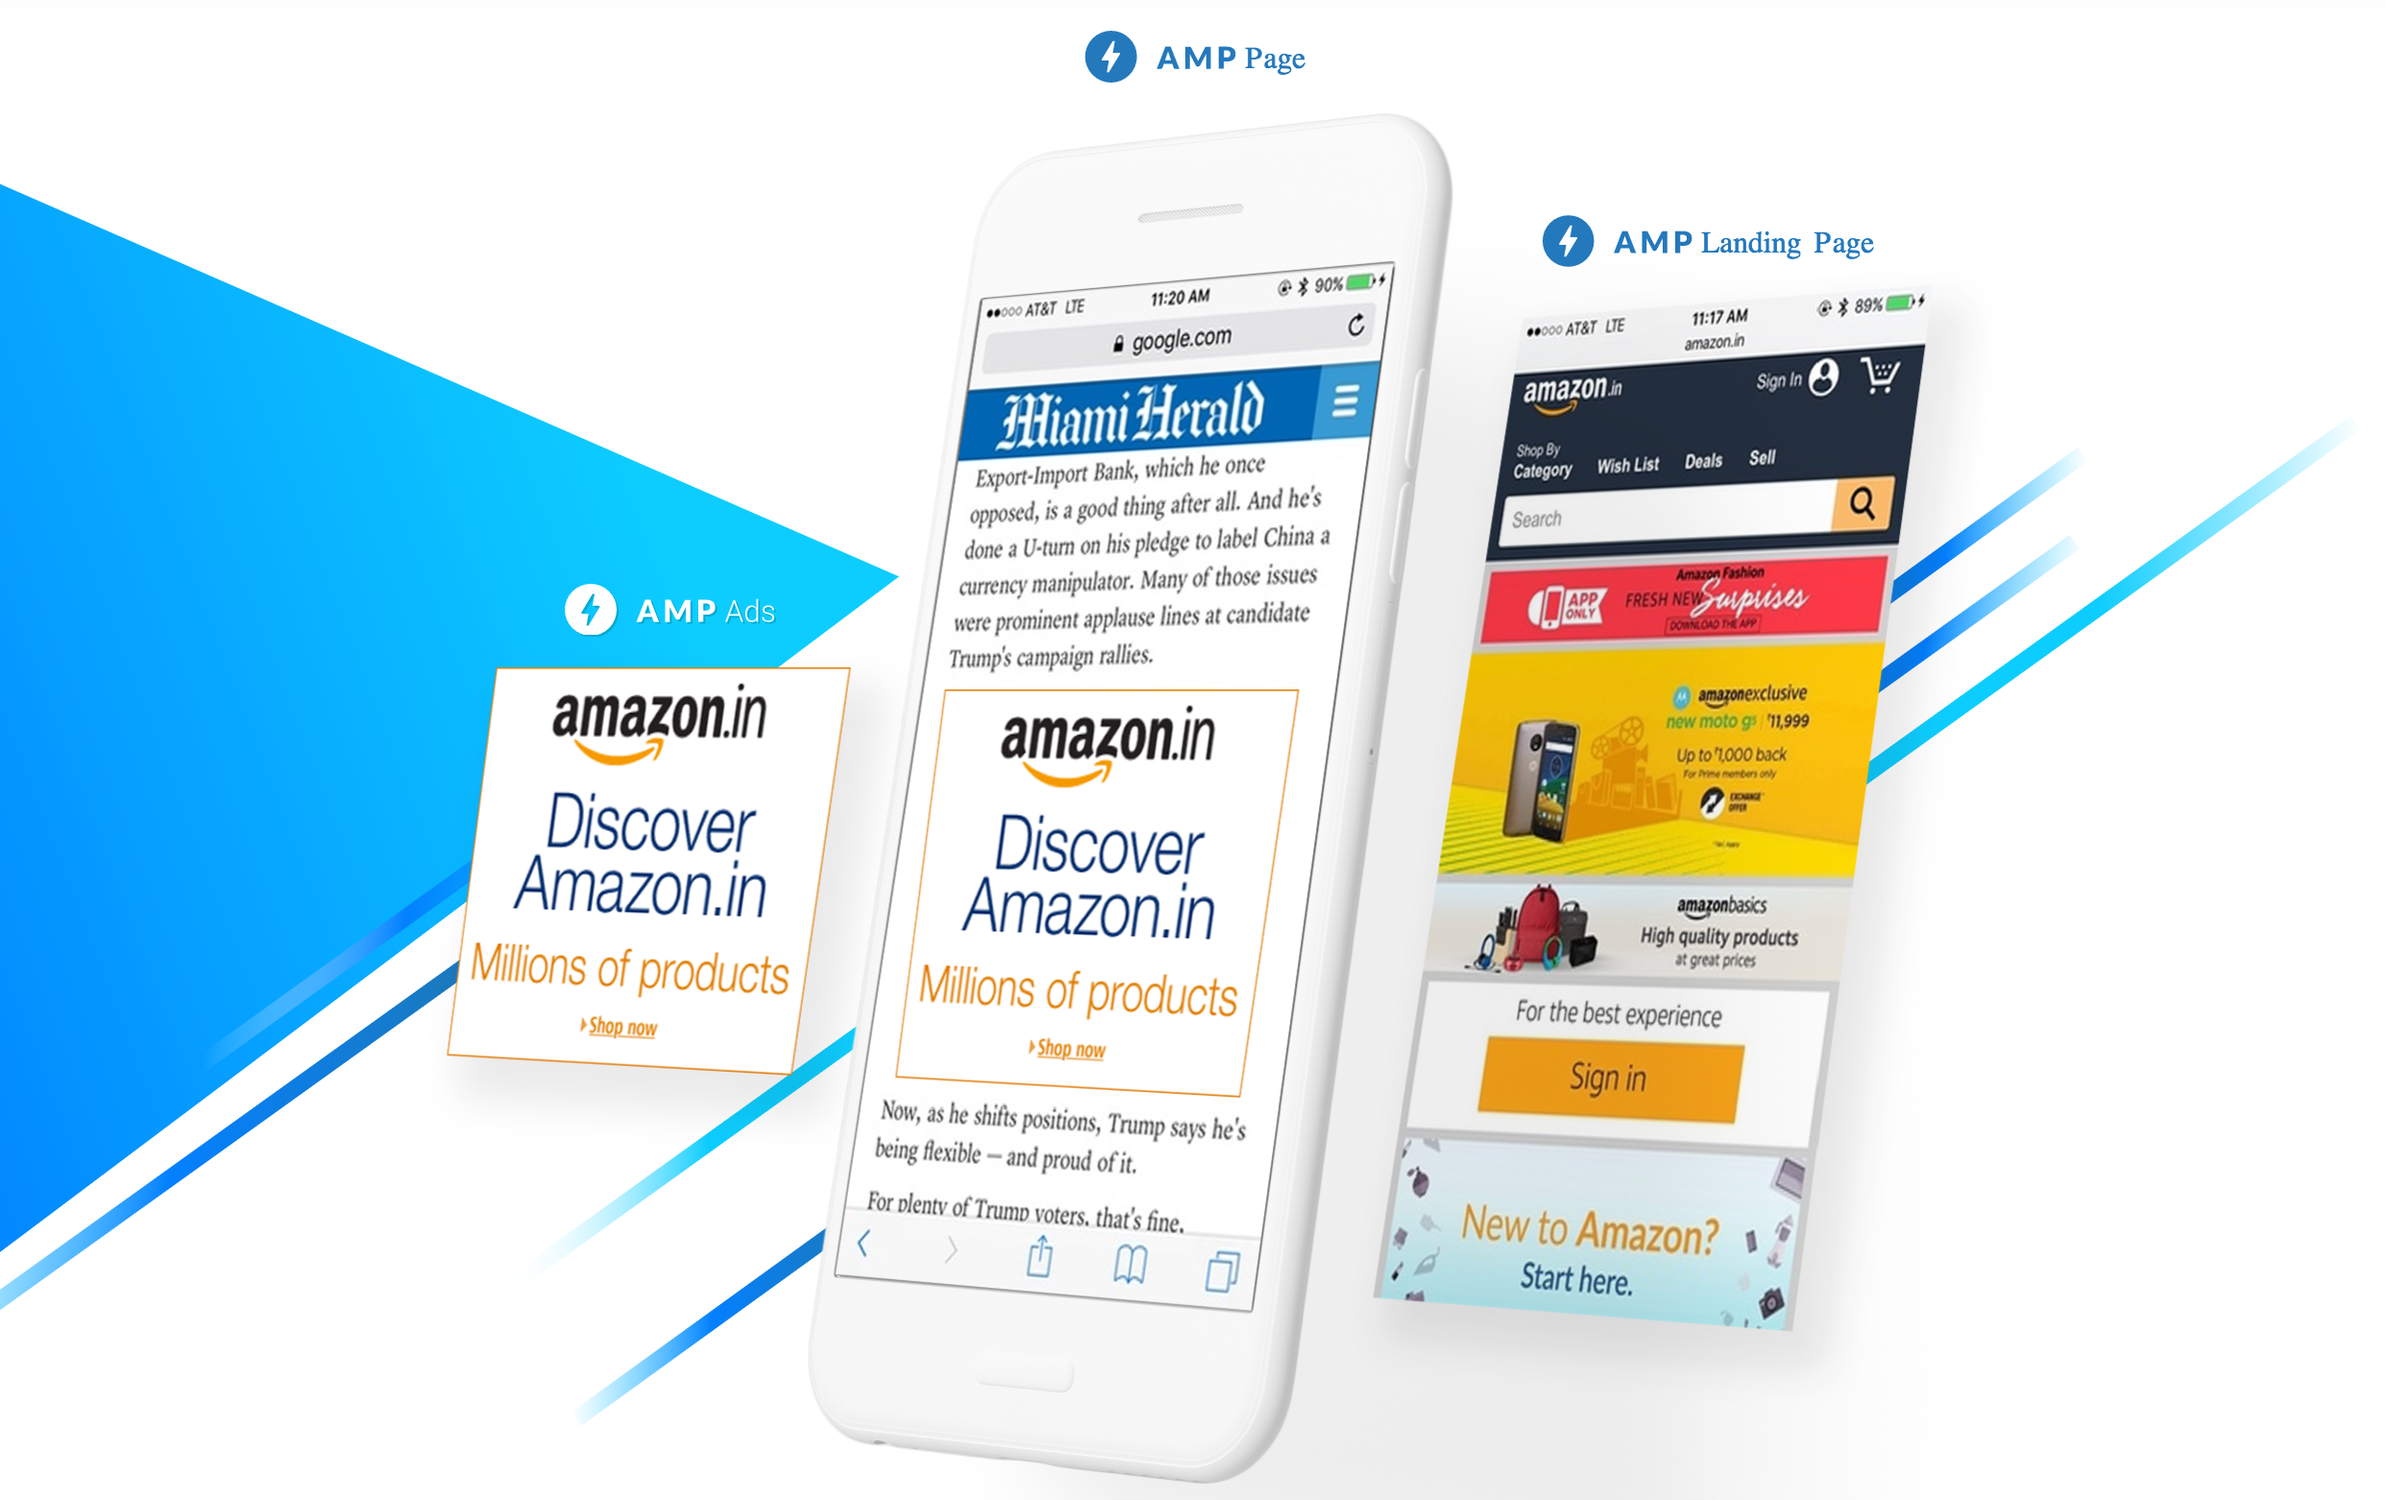
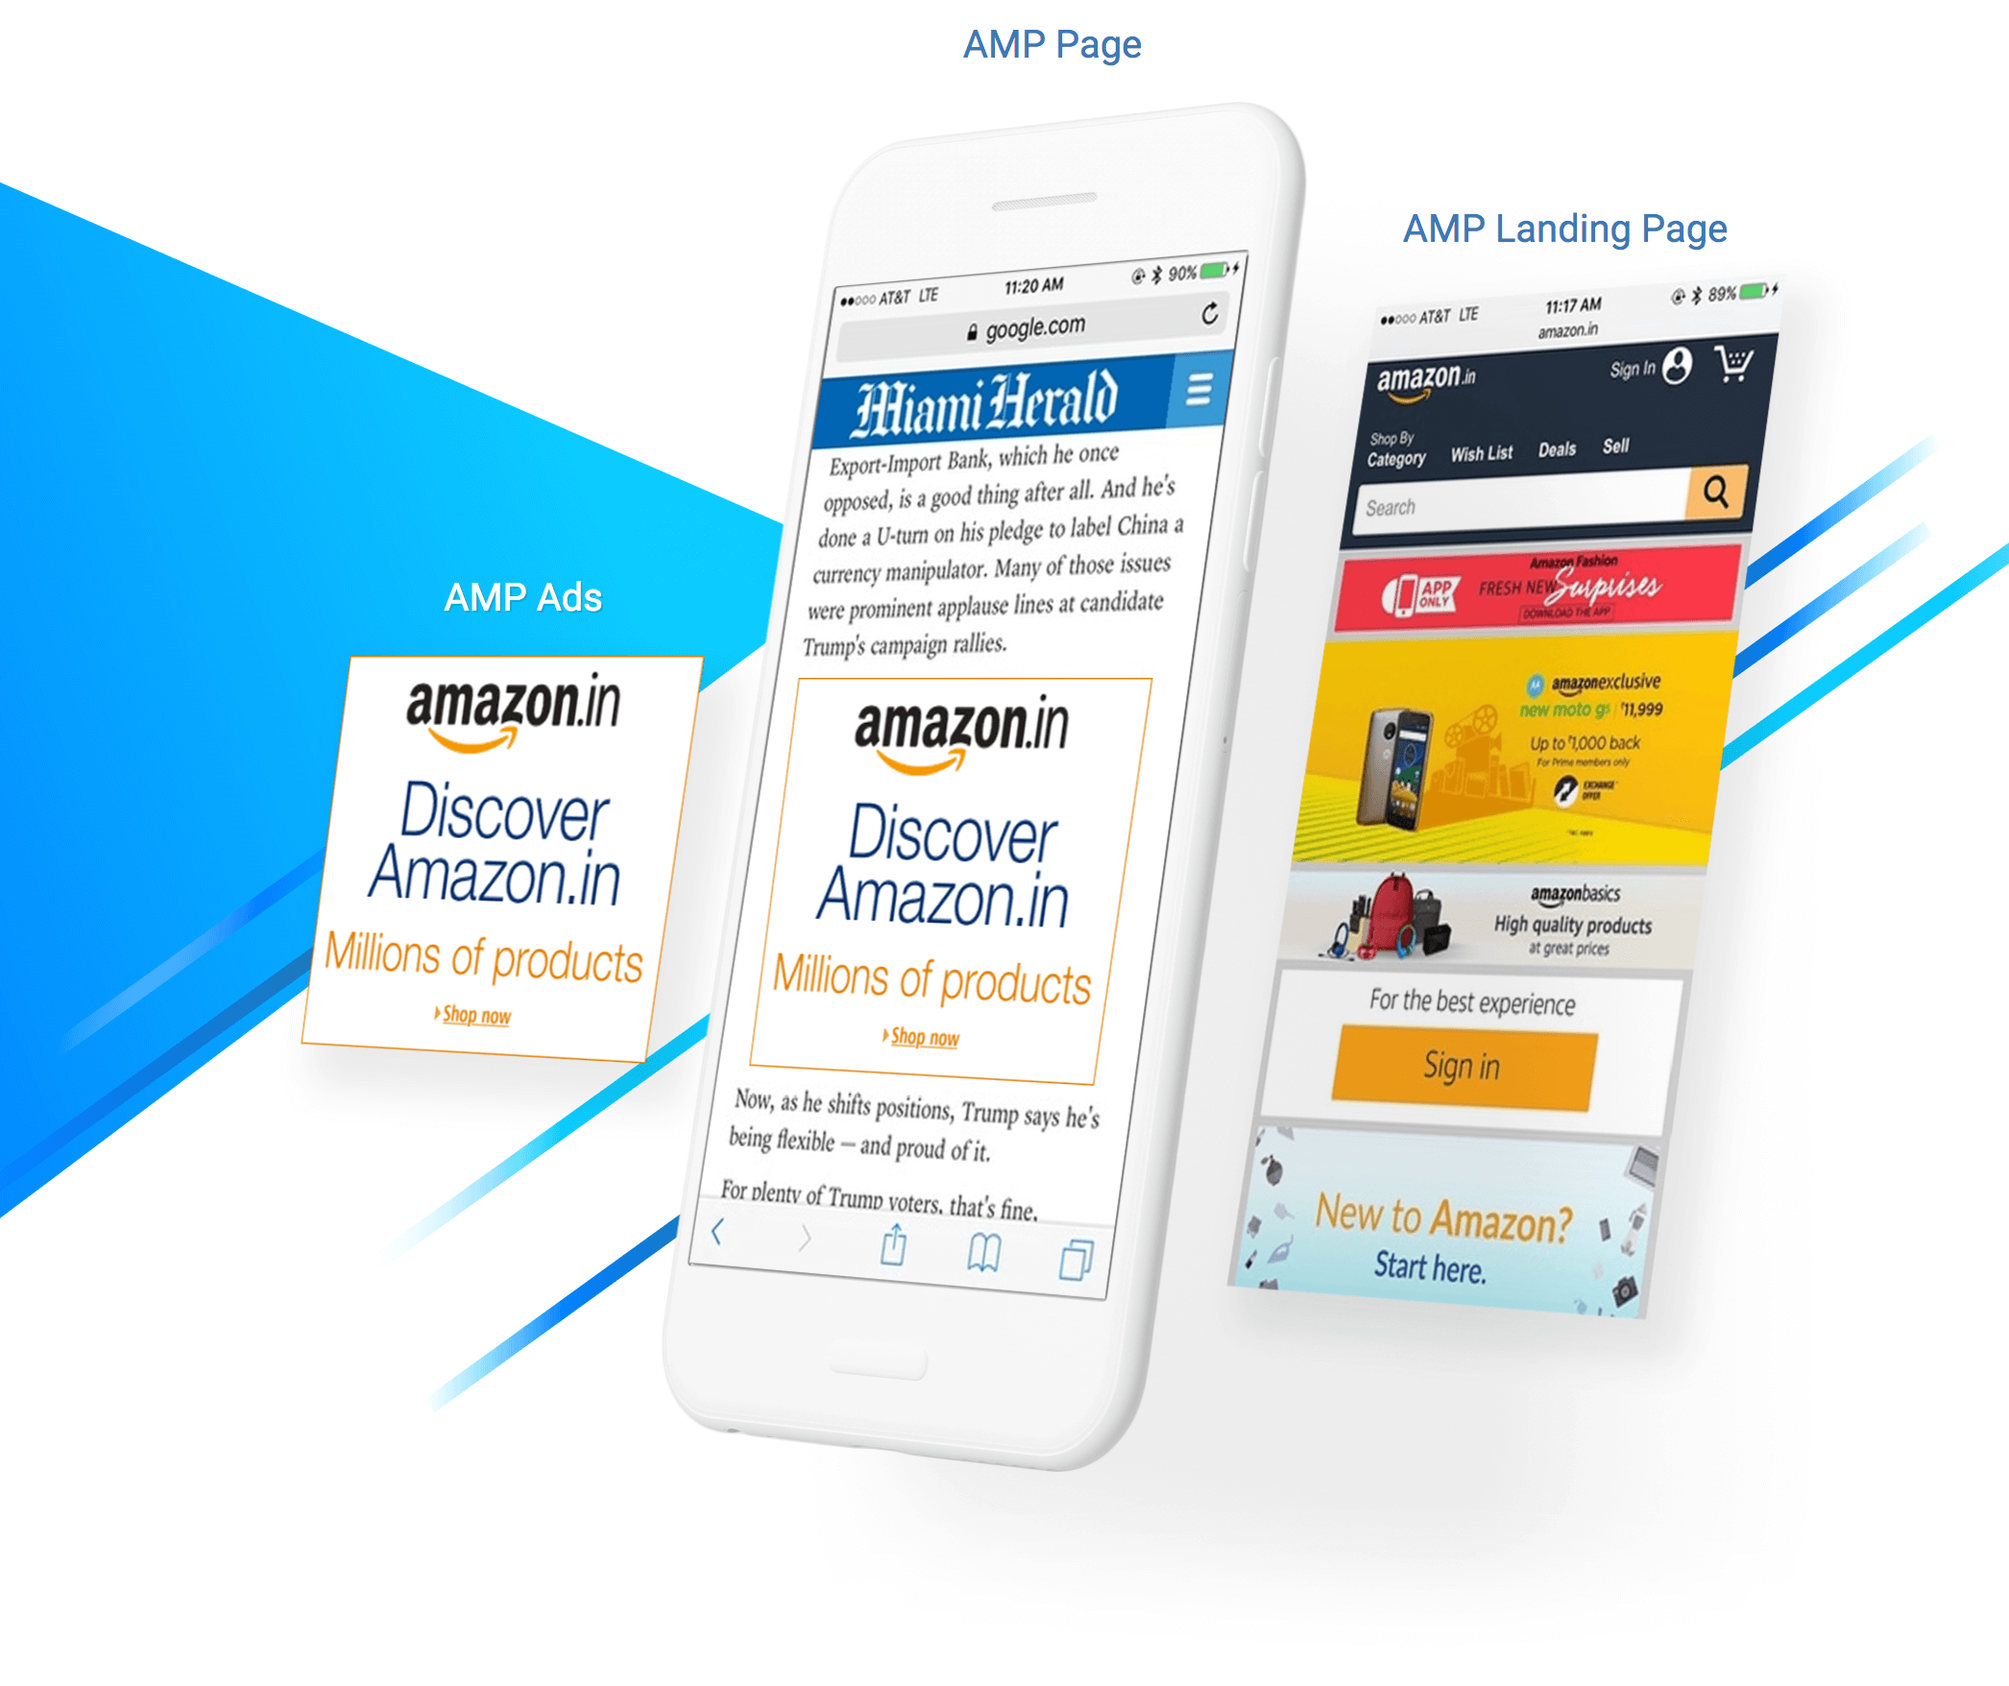
Update flattened experience image for mobile

Changed region(s): [[0.0, 0.0615, 1.0, 1.0], [0.435, 0.0, 0.5593, 0.0615], [0.2486, 0.8604, 0.3107, 0.9526]]

diff --git a/views/amp-ads.html b/views/amp-ads.html
@@ -98,8 +98,8 @@
   </div>
   <div class="experience-mini tablet-down">
     <amp-img
-        height=1562
-        width=2484
+        height=1764
+        width=2092
         layout=responsive
         src="/static/img/about/who-use-amp/amp-ads/experience/mobile-flattened.png">
     </amp-img>
